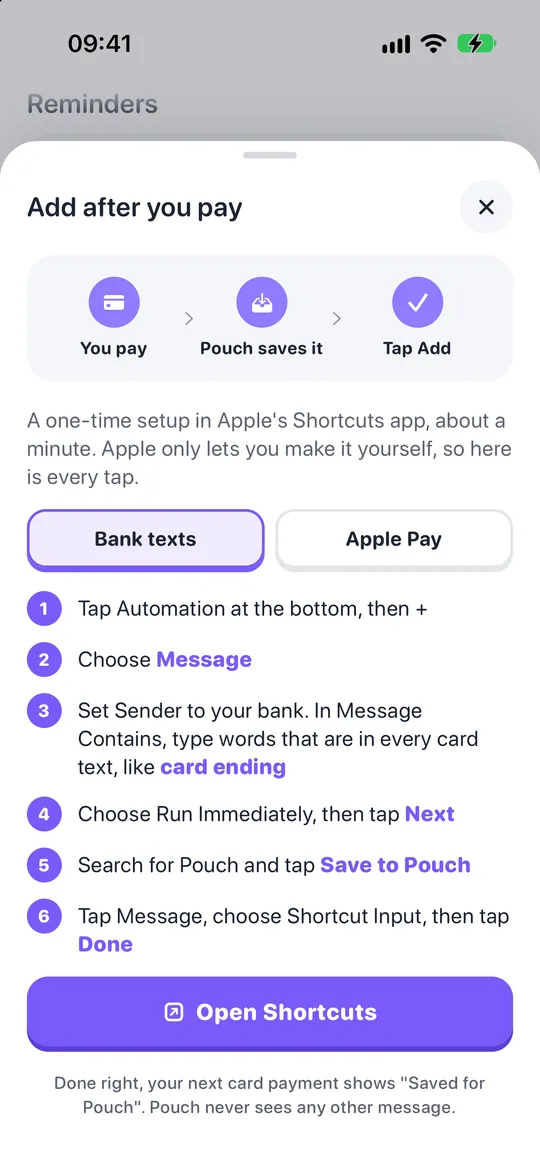
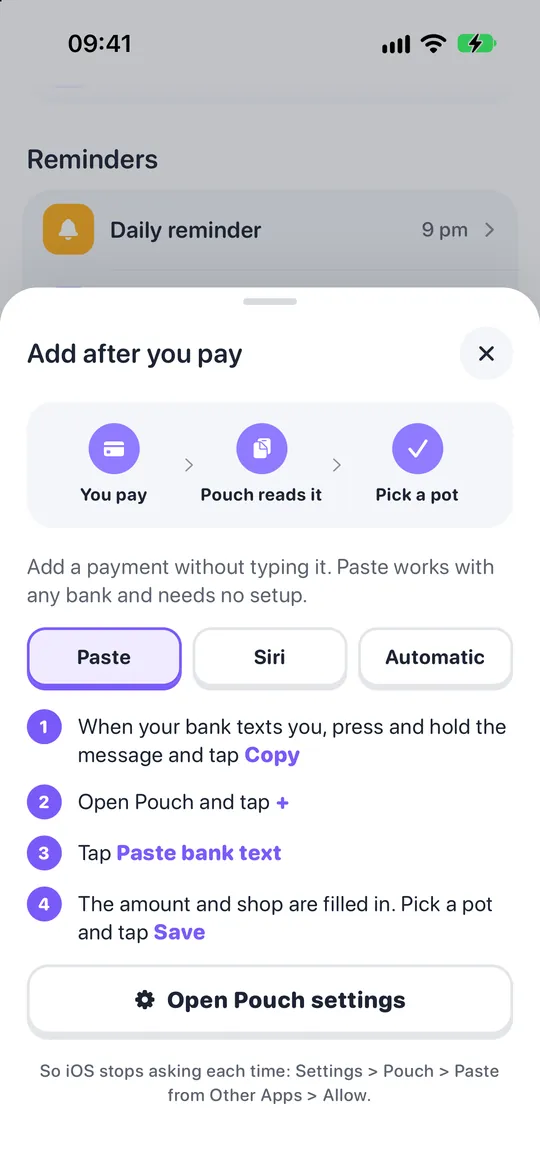
Pouch page: Paste bank text and Siri replace the Shortcuts-first flow; Entries balance; island once a day

diff --git a/work/pouch.html b/work/pouch.html
@@ -42,7 +42,7 @@
     <div class="cs-cover cs-phones sc-phones" data-rise style="--d:150ms"><div class="phone"><div class="screen"><img src="../img/apps/pouch-celebrate-week.webp" alt="Pouch screen" srcset="../img/apps/pouch-celebrate-week-300.webp 300w, ../img/apps/pouch-celebrate-week.webp 540w" sizes="(max-width: 640px) 34vw, (max-width: 900px) 160px, 240px"></div></div><div class="phone"><div class="screen"><img src="../img/apps/pouch-today.webp" alt="Pouch screen" srcset="../img/apps/pouch-today-300.webp 300w, ../img/apps/pouch-today.webp 540w" sizes="(max-width: 640px) 34vw, (max-width: 900px) 160px, 240px"></div></div><div class="phone"><div class="screen"><img src="../img/apps/pouch-wardrobe.webp" alt="Pouch screen" srcset="../img/apps/pouch-wardrobe-300.webp 300w, ../img/apps/pouch-wardrobe.webp 540w" sizes="(max-width: 640px) 34vw, (max-width: 900px) 160px, 240px"></div></div></div>
   </header>
   <nav class="cs-nav" aria-label="On this page"><a href="#research">Research</a><a href="#answer">Answer</a><a href="#demo">In action</a><a href="#screens">Screens</a></nav>
-  <section class="cs-sec" id="research"><h2>What the reviews said</h2><p class="sub">I collected 1,751 public App Store reviews of a popular budgeting app, from 12 countries, and grouped every complaint.</p><div class="stat-row" data-reveal><div><b>24%</b><span>said bank sync breaks or their bank is not supported</span></div><div><b>23%</b><span>were upset about paying, or seeing the price only after setup</span></div><div><b>54%</b><span>of one star reviews mention one of those two</span></div></div><div style="margin-top:14px"></div><div class="grid3"><div class="tile" data-reveal><span class="k">01</span><h3>Crashes and bugs</h3><p>8% of reviews: the app crashes or will not open.</p></div><div class="tile" data-reveal><span class="k">02</span><h3>Confusing money</h3><p>Wallets, balances, cards and transfers are hard to follow.</p></div><div class="tile" data-reveal><span class="k">03</span><h3>Tedious setup</h3><p>No tutorial, and setup takes too long.</p></div></div></section><section class="cs-sec" id="answer"><h2>What Pouch does instead</h2><div class="grid2"><div class="tile" data-reveal><h3>No bank login, ever</h3><p>You log a spend in about three taps, or let Pouch note it from your card or bank text as you pay. Everything stays on your phone.</p></div><div class="tile" data-reveal><h3>Free</h3><p>No subscription and no paywall waiting after setup.</p></div><div class="tile" data-reveal><h3>Private</h3><p>One network call in the whole app: exchange rates, nothing about you.</p></div><div class="tile" data-reveal><h3>Any currency, 13 languages</h3><p>Income paid from abroad can come in 38 currencies, and Pouch speaks 13 languages, including Sinhala and Tamil.</p></div></div></section><section class="cs-sec" id="demo"><div class="demo" data-reveal>
+  <section class="cs-sec" id="research"><h2>What the reviews said</h2><p class="sub">I collected 1,751 public App Store reviews of a popular budgeting app, from 12 countries, and grouped every complaint.</p><div class="stat-row" data-reveal><div><b>24%</b><span>said bank sync breaks or their bank is not supported</span></div><div><b>23%</b><span>were upset about paying, or seeing the price only after setup</span></div><div><b>54%</b><span>of one star reviews mention one of those two</span></div></div><div style="margin-top:14px"></div><div class="grid3"><div class="tile" data-reveal><span class="k">01</span><h3>Crashes and bugs</h3><p>8% of reviews: the app crashes or will not open.</p></div><div class="tile" data-reveal><span class="k">02</span><h3>Confusing money</h3><p>Wallets, balances, cards and transfers are hard to follow.</p></div><div class="tile" data-reveal><span class="k">03</span><h3>Tedious setup</h3><p>No tutorial, and setup takes too long.</p></div></div></section><section class="cs-sec" id="answer"><h2>What Pouch does instead</h2><div class="grid2"><div class="tile" data-reveal><h3>No bank login, ever</h3><p>You log a spend in about three taps, or paste your bank&#x27;s text and Pouch fills it in. Everything stays on your phone.</p></div><div class="tile" data-reveal><h3>Free</h3><p>No subscription and no paywall waiting after setup.</p></div><div class="tile" data-reveal><h3>Private</h3><p>One network call in the whole app: exchange rates, nothing about you.</p></div><div class="tile" data-reveal><h3>Any currency, 13 languages</h3><p>Income paid from abroad can come in 38 currencies, and Pouch speaks 13 languages, including Sinhala and Tamil.</p></div></div></section><section class="cs-sec" id="demo"><div class="demo" data-reveal>
       <div class="demo-phone"><div class="phone"><div class="screen"><video src="../video/pouch.mp4" poster="../video/pouch-poster.jpg" muted loop playsinline preload="none" aria-label="Pouch in action"></video></div></div></div>
       <div class="demo-copy"><h2>Pouch in action</h2><p class="sub">A real screen recording from the iPhone simulator. Tap a step to replay just that part.</p><ol class="demo-steps"><li data-at="0"><button type="button"><span class="k">Starts</span><span class="d">Today opens on what is safe to spend, the savings goal and every pot at a glance.</span></button></li><li data-at="2.0"><button type="button"><span class="k">Does</span><span class="d">Log Rs 250 in a few taps: type it and see that it fits, then pick Eating out from the full pot page, most used on top. Save, and Hedge says what is left as Today updates.</span></button></li><li data-at="14.1"><button type="button"><span class="k">Extra</span><span class="d">Budget shows every pot by family with what remains, and Profile shows Hedge, weeks tracked and weekly missions.</span></button></li></ol></div>
     </div></section><section class="cs-sec" id="screens"><h2>Screens</h2><div class="group" data-reveal>
@@ -58,16 +58,16 @@
       <div class="group-head"><h3>Any currency, any language</h3><ul><li>Income paid in another currency is converted at today&#x27;s rate, with the rate source shown.</li><li>38 currencies to pick from, like US dollar, Euro and British pound.</li><li>Pouch speaks 13 languages, picked in Profile, including Sinhala and Tamil.</li><li>Every screen switches at once: here Today in Sinhala, with your own pot names kept as you typed them.</li></ul></div>
       <div class="rail phones"><figure><div class="phone"><div class="screen"><img src="../img/apps/pouch-currency.webp" alt="Pouch currencies and languages, screen 1" loading="lazy" decoding="async" srcset="../img/apps/pouch-currency-300.webp 300w, ../img/apps/pouch-currency.webp 540w" sizes="(max-width: 640px) 34vw, (max-width: 900px) 160px, 240px"></div></div></figure><figure><div class="phone"><div class="screen"><img src="../img/apps/pouch-currencies.webp" alt="Pouch currencies and languages, screen 2" loading="lazy" decoding="async" srcset="../img/apps/pouch-currencies-300.webp 300w, ../img/apps/pouch-currencies.webp 540w" sizes="(max-width: 640px) 34vw, (max-width: 900px) 160px, 240px"></div></div></figure><figure><div class="phone"><div class="screen"><img src="../img/apps/pouch-languages.webp" alt="Pouch currencies and languages, screen 3" loading="lazy" decoding="async" srcset="../img/apps/pouch-languages-300.webp 300w, ../img/apps/pouch-languages.webp 540w" sizes="(max-width: 640px) 34vw, (max-width: 900px) 160px, 240px"></div></div></figure><figure><div class="phone"><div class="screen"><img src="../img/apps/pouch-today-si.webp" alt="Pouch currencies and languages, screen 4" loading="lazy" decoding="async" srcset="../img/apps/pouch-today-si-300.webp 300w, ../img/apps/pouch-today-si.webp 540w" sizes="(max-width: 640px) 34vw, (max-width: 900px) 160px, 240px"></div></div></figure></div>
     </div><div class="group" data-reveal>
-      <div class="group-head"><h3>Entries, wallets and big buys</h3><ul><li>Entries open on a totals strip, then what is coming up and each day in its own group.</li><li>Wallets keep accounts, savings and cards apart, with your net worth on top.</li><li>Big buys are paid off in parts, next to card plans and what you own.</li></ul></div>
+      <div class="group-head"><h3>Entries, wallets and big buys</h3><ul><li>Entries open on what came in, what went out and the balance, then what is coming up and each day in its own group.</li><li>Wallets keep accounts, savings and cards apart, with your net worth on top.</li><li>Big buys are paid off in parts, next to card plans and what you own.</li></ul></div>
       <div class="rail phones"><figure><div class="phone"><div class="screen"><img src="../img/apps/pouch-entries.webp" alt="Pouch entries and wallets, screen 1" loading="lazy" decoding="async" srcset="../img/apps/pouch-entries-300.webp 300w, ../img/apps/pouch-entries.webp 540w" sizes="(max-width: 640px) 34vw, (max-width: 900px) 160px, 240px"></div></div></figure><figure><div class="phone"><div class="screen"><img src="../img/apps/pouch-wallets.webp" alt="Pouch entries and wallets, screen 2" loading="lazy" decoding="async" srcset="../img/apps/pouch-wallets-300.webp 300w, ../img/apps/pouch-wallets.webp 540w" sizes="(max-width: 640px) 34vw, (max-width: 900px) 160px, 240px"></div></div></figure><figure><div class="phone"><div class="screen"><img src="../img/apps/pouch-bigbuy-tiles.webp" alt="Pouch entries and wallets, screen 3" loading="lazy" decoding="async" srcset="../img/apps/pouch-bigbuy-tiles-300.webp 300w, ../img/apps/pouch-bigbuy-tiles.webp 540w" sizes="(max-width: 640px) 34vw, (max-width: 900px) 160px, 240px"></div></div></figure></div>
     </div><div class="group" data-reveal>
       <div class="group-head"><h3>Missions, insights and your data</h3><ul><li>Profile shows Hedge&#x27;s level, weeks tracked and weekly missions that pay out gems.</li><li>Insights encourage instead of scold, with notes from Hedge and the last six months.</li><li>Your data stays on the phone: back up, restore, and export or import entries as CSV.</li><li>Deleting everything takes a deliberate hold, never a single tap.</li></ul></div>
       <div class="rail phones"><figure><div class="phone"><div class="screen"><img src="../img/apps/pouch-missions.webp" alt="Pouch missions, insights and data, screen 1" loading="lazy" decoding="async" srcset="../img/apps/pouch-missions-300.webp 300w, ../img/apps/pouch-missions.webp 540w" sizes="(max-width: 640px) 34vw, (max-width: 900px) 160px, 240px"></div></div></figure><figure><div class="phone"><div class="screen"><img src="../img/apps/pouch-free-insights.webp" alt="Pouch missions, insights and data, screen 2" loading="lazy" decoding="async" srcset="../img/apps/pouch-free-insights-300.webp 300w, ../img/apps/pouch-free-insights.webp 540w" sizes="(max-width: 640px) 34vw, (max-width: 900px) 160px, 240px"></div></div></figure><figure><div class="phone"><div class="screen"><img src="../img/apps/pouch-your-data.webp" alt="Pouch missions, insights and data, screen 3" loading="lazy" decoding="async" srcset="../img/apps/pouch-your-data-300.webp 300w, ../img/apps/pouch-your-data.webp 540w" sizes="(max-width: 640px) 34vw, (max-width: 900px) 160px, 240px"></div></div></figure></div>
     </div><div class="group" data-reveal>
-      <div class="group-head"><h3>Add after you pay</h3><ul><li>Set up once in Apple&#x27;s Shortcuts: pick Bank texts or Apple Pay, and every tap is spelled out, with an Open Shortcuts button.</li><li>After that, paying is enough. Pouch notes each card payment or bank text in the background, and next time you open it, Just paid? lists the day&#x27;s payments.</li><li>One tap opens a new entry with the amount and shop already filled in. Pick a pot and save.</li><li>A cash withdrawal opens as money moved from the bank to cash, so it never counts as spending.</li></ul></div>
-      <div class="rail phones"><figure><div class="phone"><div class="screen"><img src="../img/apps/pouch-after-you-pay.webp" alt="Pouch add after you pay, screen 1" loading="lazy" decoding="async" srcset="../img/apps/pouch-after-you-pay-300.webp 300w, ../img/apps/pouch-after-you-pay.webp 540w" sizes="(max-width: 640px) 34vw, (max-width: 900px) 160px, 240px"></div></div></figure><figure><div class="phone"><div class="screen"><img src="../img/apps/pouch-just-paid.webp" alt="Pouch add after you pay, screen 2" loading="lazy" decoding="async" srcset="../img/apps/pouch-just-paid-300.webp 300w, ../img/apps/pouch-just-paid.webp 540w" sizes="(max-width: 640px) 34vw, (max-width: 900px) 160px, 240px"></div></div></figure><figure><div class="phone"><div class="screen"><img src="../img/apps/pouch-paid-prefilled.webp" alt="Pouch add after you pay, screen 3" loading="lazy" decoding="async" srcset="../img/apps/pouch-paid-prefilled-300.webp 300w, ../img/apps/pouch-paid-prefilled.webp 540w" sizes="(max-width: 640px) 34vw, (max-width: 900px) 160px, 240px"></div></div></figure><figure><div class="phone"><div class="screen"><img src="../img/apps/pouch-paid-atm.webp" alt="Pouch add after you pay, screen 4" loading="lazy" decoding="async" srcset="../img/apps/pouch-paid-atm-300.webp 300w, ../img/apps/pouch-paid-atm.webp 540w" sizes="(max-width: 640px) 34vw, (max-width: 900px) 160px, 240px"></div></div></figure></div>
+      <div class="group-head"><h3>Add after you pay</h3><ul><li>Profile shows three ways to add after you pay, easiest first: Paste, Siri, and an optional Shortcuts automation.</li><li>Copy your bank&#x27;s text and a new entry offers Paste bank text, only right after a copy that looks like a payment.</li><li>One tap fills in the amount and the shop; a cash withdrawal becomes a move to Cash. Pick a pot and save.</li><li>Or say &quot;Hey Siri, log a spend in Pouch&quot;. Pouch stays closed and asks Just paid? next time it opens.</li></ul></div>
+      <div class="rail phones"><figure><div class="phone"><div class="screen"><img src="../img/apps/pouch-after-you-pay.webp" alt="Pouch add after you pay, screen 1" loading="lazy" decoding="async" srcset="../img/apps/pouch-after-you-pay-300.webp 300w, ../img/apps/pouch-after-you-pay.webp 540w" sizes="(max-width: 640px) 34vw, (max-width: 900px) 160px, 240px"></div></div></figure><figure><div class="phone"><div class="screen"><img src="../img/apps/pouch-paste-row.webp" alt="Pouch add after you pay, screen 2" loading="lazy" decoding="async" srcset="../img/apps/pouch-paste-row-300.webp 300w, ../img/apps/pouch-paste-row.webp 540w" sizes="(max-width: 640px) 34vw, (max-width: 900px) 160px, 240px"></div></div></figure><figure><div class="phone"><div class="screen"><img src="../img/apps/pouch-paste-filled.webp" alt="Pouch add after you pay, screen 3" loading="lazy" decoding="async" srcset="../img/apps/pouch-paste-filled-300.webp 300w, ../img/apps/pouch-paste-filled.webp 540w" sizes="(max-width: 640px) 34vw, (max-width: 900px) 160px, 240px"></div></div></figure><figure><div class="phone"><div class="screen"><img src="../img/apps/pouch-guide-siri.webp" alt="Pouch add after you pay, screen 4" loading="lazy" decoding="async" srcset="../img/apps/pouch-guide-siri-300.webp 300w, ../img/apps/pouch-guide-siri.webp 540w" sizes="(max-width: 640px) 34vw, (max-width: 900px) 160px, 240px"></div></div></figure></div>
     </div><div class="group" data-reveal>
-      <div class="group-head"><h3>Dynamic Island and quick logging</h3><ul><li>Safe today lives in the Dynamic Island, and only appears once you log a spend. Its Log button opens a new entry.</li><li>Choose a pot opens every category at once, your most used on top, with search; the circles pop in as it opens.</li><li>Payments you have not added yet wait on Today under Add these?, until you add or dismiss them.</li></ul></div>
+      <div class="group-head"><h3>Dynamic Island and quick logging</h3><ul><li>Safe today lives in the Dynamic Island. It starts with your first spend of the day, and once swiped away it stays away until tomorrow.</li><li>Choose a pot opens every category at once, your most used on top, with search; the circles pop in as it opens.</li><li>Payments told to Siri wait on Today under Add these?, until you add or dismiss them.</li></ul></div>
       <div class="rail phones"><figure><div class="phone"><div class="screen"><img src="../img/apps/pouch-island.webp" alt="Pouch Dynamic Island and quick logging, screen 1" loading="lazy" decoding="async" srcset="../img/apps/pouch-island-300.webp 300w, ../img/apps/pouch-island.webp 540w" sizes="(max-width: 640px) 34vw, (max-width: 900px) 160px, 240px"></div></div></figure><figure><div class="phone"><div class="screen"><img src="../img/apps/pouch-choose-pot.webp" alt="Pouch Dynamic Island and quick logging, screen 2" loading="lazy" decoding="async" srcset="../img/apps/pouch-choose-pot-300.webp 300w, ../img/apps/pouch-choose-pot.webp 540w" sizes="(max-width: 640px) 34vw, (max-width: 900px) 160px, 240px"></div></div></figure><figure><div class="phone"><div class="screen"><img src="../img/apps/pouch-add-these.webp" alt="Pouch Dynamic Island and quick logging, screen 3" loading="lazy" decoding="async" srcset="../img/apps/pouch-add-these-300.webp 300w, ../img/apps/pouch-add-these.webp 540w" sizes="(max-width: 640px) 34vw, (max-width: 900px) 160px, 240px"></div></div></figure></div>
     </div><div class="group" data-reveal>
       <div class="group-head"><h3>Dark mode</h3><ul><li>Today in dark mode, with every colour checked for contrast. Switching fades smoothly instead of jumping.</li><li>A new entry in dark mode.</li><li>Budget in dark mode, with the pot colours kept readable.</li></ul></div>
